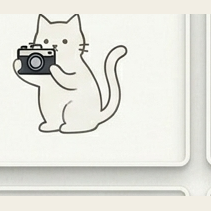
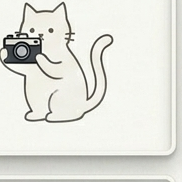
fix: 캐러셀·실루엣 마스코트·꼬리 살랑·페르소나 PNG 가운데
1) 페르소나 PNG 재크롭 — 일러스트 가운데 정사각 박스로 잡기.
   spotted top_skip override(0.06)로 머리 안 잘리게.
   카드 외곽선 안 들어가게 안쪽으로.

2) 별자리 가운데 — CatPhotographer → CatStarlit (별빛 실루엣).
   PDF 7페이지 톤 그대로.

3) PWA 아이콘 — 어두운 카메라 든 → 별빛 실루엣 카든냥.
   icon-v2.svg + icon-maskable-v2.svg 둘 다. 라디얼 그라데이션 +
   별 6~8개 흩뿌림 + 흰색 발광 실루엣 + 푸른 렌즈.

4) 마스코트 꼬리 살랑 —
   - CatPhotographer animate=true: 꼬리 ±14° wag (1.4s).
   - CatSleepyFour animate(default true): 꼬리 ±5° 살랑 (2.4s, 잠든 톤).
   - transform-box: fill-box + transform-origin 정확.
   기록 화면 잠든 고양이도 자동 꼬리 흔듦. CatLoader도 강화.

5) HomeScreen 오늘의 한 컷 캐러셀 —
   featured 1장 → heroSlides 5장.
   5초마다 setInterval로 우측 슬라이드 (translateX, 700ms ease).
   하단 페이지 도트 (현재 인덱스 wide).

(이슈 2 봇 사진 교체는 안전한 Unsplash ID 협의 후 다음 단계)

Changed region(s): [[0.0, 0.0, 1.0, 1.0], [0.0, 0.0, 0.6319, 0.6868]]

diff --git a/src/screens/HomeScreen.jsx b/src/screens/HomeScreen.jsx
@@ -65,7 +65,20 @@ export default function HomeScreen({ setScreen, openArtwork, openPlace, openPers
   const featuredPool = feedFilter === '팔로잉'
     ? recommended.filter((a) => followingIds.has(a.user_id))
     : recommended;
-  const featured = featuredPool[0] || null;
+  // 오늘의 한 컷 캐러셀 — 후보 5장을 5초마다 우측 슬라이드
+  const heroSlides = useMemo(() => featuredPool.slice(0, 5), [featuredPool]);
+  const [heroIndex, setHeroIndex] = useState(0);
+  useEffect(() => {
+    setHeroIndex(0);
+  }, [heroSlides.length]);
+  useEffect(() => {
+    if (heroSlides.length <= 1) return;
+    const t = setInterval(() => {
+      setHeroIndex((i) => (i + 1) % heroSlides.length);
+    }, 5000);
+    return () => clearInterval(t);
+  }, [heroSlides.length]);
+  const featured = heroSlides[heroIndex] || featuredPool[0] || null;
 
   const topCreators = useMemo(() => getRecommendedCreators(6), [getRecommendedCreators]);
 
@@ -219,12 +232,31 @@ export default function HomeScreen({ setScreen, openArtwork, openPlace, openPers
                 onClick={() => openArtwork(featured.id)}
                 className="block w-full overflow-hidden rounded-[24px] bg-[var(--surface)] text-left shadow-[0_0_0_1px_var(--border)]"
               >
-                {/* 풀폭 세로 비율 사진 — 시집·도록 톤 */}
+                {/* 풀폭 세로 비율 사진 — 5장 캐러셀, 5초마다 우측 슬라이드 */}
                 <div className="relative w-full overflow-hidden" style={{ aspectRatio: '3/4' }}>
-                  <ImageBox src={featured.imageUrl} alt={featured.title} className="h-full w-full" priority />
+                  <div
+                    className="absolute inset-0 flex transition-transform duration-700 ease-in-out"
+                    style={{ transform: `translateX(-${heroIndex * 100}%)`, width: `${heroSlides.length * 100}%` }}
+                  >
+                    {heroSlides.map((slide) => (
+                      <div key={slide.id} className="relative h-full shrink-0" style={{ width: `${100 / heroSlides.length}%` }}>
+                        <ImageBox src={slide.imageUrl} alt={slide.title} className="h-full w-full" priority />
+                      </div>
+                    ))}
+                  </div>
                   <span className="absolute left-3 top-3 inline-flex items-center gap-1 rounded-full bg-[var(--ink)]/85 px-2.5 py-1 text-[10px] font-semibold tracking-[0.16em] text-white">
                     <span className="h-1.5 w-1.5 rounded-full bg-[var(--accent)]" /> 오늘의 한 컷
                   </span>
+                  {heroSlides.length > 1 && (
+                    <div className="absolute bottom-3 left-1/2 flex -translate-x-1/2 items-center gap-1">
+                      {heroSlides.map((_, i) => (
+                        <span
+                          key={i}
+                          className={`h-1.5 rounded-full transition-all ${i === heroIndex ? 'w-5 bg-white' : 'w-1.5 bg-white/45'}`}
+                        />
+                      ))}
+                    </div>
+                  )}
                 </div>
                 {/* 카드 아래 — 제목 + 작가 (중앙 정렬, 명조) */}
                 <div className="px-5 py-5 text-center">

diff --git a/src/components/Mascot.jsx b/src/components/Mascot.jsx
@@ -3,7 +3,8 @@
 
 const SPIN_KEYFRAMES = `
 @keyframes siseonjip-spin { to { transform: rotate(360deg); } }
-@keyframes siseonjip-tail-wag { 0%,100% { transform: rotate(-8deg); } 50% { transform: rotate(8deg); } }
+@keyframes siseonjip-tail-wag { 0%,100% { transform: rotate(-14deg); } 50% { transform: rotate(14deg); } }
+@keyframes siseonjip-tail-sleepy { 0%,100% { transform: rotate(-5deg); } 50% { transform: rotate(5deg); } }
 @keyframes siseonjip-blink { 0%, 92%, 100% { transform: scaleY(1); } 95% { transform: scaleY(0.1); } }
 `;
 
@@ -20,8 +21,8 @@ export function CatPhotographer({ size = 100, animate = false, className = '' })
       className={className}
     >
       <style>{SPIN_KEYFRAMES}</style>
-      {/* 꼬리 */}
-      <g style={animate ? { transformOrigin: '60px 105px', animation: 'siseonjip-tail-wag 1.8s ease-in-out infinite' } : undefined}>
+      {/* 꼬리 — animate일 때 살랑살랑 */}
+      <g style={animate ? { transformBox: 'fill-box', transformOrigin: '0% 100%', animation: 'siseonjip-tail-wag 1.4s ease-in-out infinite' } : undefined}>
         <path d="M 86 100 Q 102 88 96 72" stroke="currentColor" strokeWidth="5" strokeLinecap="round" fill="none"/>
       </g>
       {/* 몸 */}
@@ -66,7 +67,7 @@ export function CatPhotographer({ size = 100, animate = false, className = '' })
 }
 
 // 잠든 사진가 고양이 — 전신 (몸통 + 꼬리 + 다리 + 머리) + 4장 폴라로이드
-export function CatSleepyFour({ size = 240 }) {
+export function CatSleepyFour({ size = 240, animate = true }) {
   return (
     <svg
       viewBox="0 0 280 220"
@@ -76,6 +77,7 @@ export function CatSleepyFour({ size = 240 }) {
       role="img"
       aria-label="필름 4장을 다 쓰고 잠든 사진가 고양이"
     >
+      <style>{SPIN_KEYFRAMES}</style>
       {/* 떨어진 폴라로이드 4장 — 모서리 사방 */}
       <g>
         <g transform="translate(6 8) rotate(-18)">
@@ -98,9 +100,11 @@ export function CatSleepyFour({ size = 240 }) {
 
       {/* 옆으로 누운 사진가 고양이 — 전신 */}
       <g transform="translate(48 80)">
-        {/* 꼬리 — 몸 뒤로 살짝 말려 올라감 */}
-        <path d="M 168 60 Q 196 42 178 22 Q 170 14 158 22"
-              stroke="currentColor" strokeWidth="10" fill="none" strokeLinecap="round"/>
+        {/* 꼬리 — 몸 뒤로 살짝 말려 올라감. 자면서도 살랑살랑 */}
+        <g style={animate ? { transformBox: 'fill-box', transformOrigin: '0% 100%', animation: 'siseonjip-tail-sleepy 2.4s ease-in-out infinite' } : undefined}>
+          <path d="M 168 60 Q 196 42 178 22 Q 170 14 158 22"
+                stroke="currentColor" strokeWidth="10" fill="none" strokeLinecap="round"/>
+        </g>
 
         {/* 몸통 — 옆에서 본 둥근 타원 (큰 덩어리) */}
         <ellipse cx="100" cy="68" rx="76" ry="32" fill="currentColor"/>

diff --git a/src/components/NearbyConstellation.jsx b/src/components/NearbyConstellation.jsx
@@ -1,4 +1,4 @@
-import { CatPhotographer } from './Mascot';
+import { CatStarlit } from './Mascot';
 import { formatDistance } from '../lib/utils';
 import { distanceMeters } from '../lib/geocoding';
 
@@ -138,11 +138,11 @@ export default function NearbyConstellation({
         }}
       />
       <div
-        className="absolute z-20 flex items-center justify-center rounded-full bg-white text-[var(--ink)] shadow-[0_8px_24px_rgba(0,0,0,0.4)]"
-        style={{ left: half - 40, top: half - 40, width: 80, height: 80 }}
+        className="absolute z-20 flex items-center justify-center"
+        style={{ left: half - 50, top: half - 50, width: 100, height: 100 }}
         aria-label="내 위치"
       >
-        <CatPhotographer size={54} />
+        <CatStarlit size={100} />
       </div>
 
       {/* 주변 사진 — 별처럼 반짝임 */}
